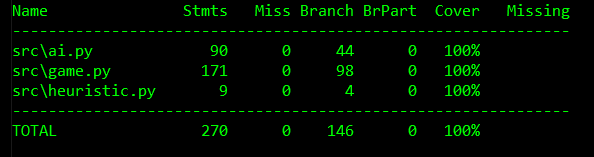
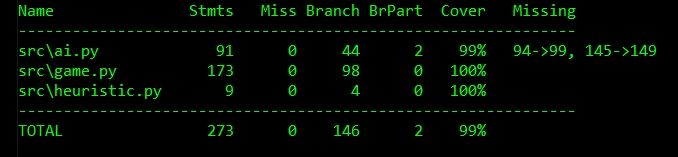
Make some perfomance improvements and bug fixes based on the peer review I got

diff --git a/src/game.py b/src/game.py
@@ -28,6 +28,11 @@ class Game:
         self.setBoard(board)
         self.addNumToBoard()
 
+    def copyBoard(self, board):
+        """Function to create a real copy of a board
+        """
+        return [row[:] for row in board]
+
     def getBoard(self):
         """Get the game objects board  
         """
@@ -106,7 +111,7 @@ class Game:
         Returns:
             A new board with the number in given position
         """
-        modifiedBoard = copy.deepcopy(board)
+        modifiedBoard = self.copyBoard(board)
         modifiedBoard[coordinates[0]][coordinates[1]] = number
         return modifiedBoard
 
@@ -166,7 +171,7 @@ class Game:
         Args:
             move: The direction in which the board is to be moved 
         """
-        prevBoard = copy.deepcopy(self.getBoard())
+        prevBoard = self.copyBoard(self.getBoard())
         if move == "up" and self.isMovePossible(move, prevBoard):
             self.setBoard(self.moveBoardUp(self.getBoard()))
             self.addNumToBoard()
@@ -197,7 +202,8 @@ class Game:
         Returns: 
             True if the move changes the board, False if the move does not
         """
-        prevBoard = copy.deepcopy(board)
+
+        prevBoard = self.copyBoard(board)
         if move == "up":
             movedBoard = self.moveBoardUp(prevBoard)
             if movedBoard == prevBoard:
@@ -233,13 +239,13 @@ class Game:
         Returns:
             A new move board where the numbers have been moved upward
         """
-        returnBoard = copy.deepcopy(board)
-        for i in range(len(returnBoard)):
+        returnBoard = self.copyBoard(board)
+        for i in range(4):
             col = [returnBoard[0][i],returnBoard[1][i],returnBoard[2][i],returnBoard[3][i]]
             prevCombinedIdx = None
 
             j = 1
-            while j < len(col):
+            while j < 4:
                 if col[j] != 0 and col[j] == col[j-1] and prevCombinedIdx != j-1:
                     col[j-1] = col[j]+col[j-1]
                     col[j] = 0
@@ -268,8 +274,8 @@ class Game:
         Returns:
             A new move board where the numbers have been moved downward
         """
-        returnBoard = copy.deepcopy(board)
-        for i in range(len(returnBoard)):
+        returnBoard = self.copyBoard(board)
+        for i in range(4):
             col = [returnBoard[0][i],returnBoard[1][i],returnBoard[2][i],returnBoard[3][i]]
             prevCombinedIdx = None
 
@@ -302,13 +308,13 @@ class Game:
         Returns:
             A new move board where the numbers have been moved leftward            
         """
-        returnBoard = copy.deepcopy(board)
-        for i in range(len(returnBoard)):
+        returnBoard = self.copyBoard(board)
+        for i in range(4):
             row = returnBoard[i]
             prevCombinedIdx = None
 
             j = 1
-            while j < len(row):
+            while j < 4:
                 if row[j] != 0 and row[j] == row[j-1] and prevCombinedIdx != j-1:
                     row[j-1] = row[j]+row[j-1]
                     row[j] = 0
@@ -334,8 +340,8 @@ class Game:
         Returns:
             A new move board where the numbers have been moved rightward
         """
-        returnBoard = copy.deepcopy(board)
-        for i in range(len(returnBoard)):
+        returnBoard = self.copyBoard(board)
+        for i in range(4):
             row = returnBoard[i]
             prevCombinedIdx = None
 

diff --git a/src/ai.py b/src/ai.py
@@ -73,7 +73,7 @@ class AI:
                         
         for move in moves:
             moveScore = -999999999999999999
-            prevBoard = copy.deepcopy(self.game.getBoard())
+            prevBoard = self.game.copyBoard(self.game.getBoard())
             if self.game.isMovePossible(move, prevBoard):
 
                 if move == "up":
@@ -159,6 +159,7 @@ class AI:
                     alpha += round(((self.expectiminimax(board, depth, True, mode))*0.9)/len(freeSpaces))
                     board[position[0]][position[1]] = 4
                     alpha += round(((self.expectiminimax(board, depth, True, mode))*0.1)/len(freeSpaces))
+                    board[position[0]][position[1]] = 0
             else:
                 freeSpace = self.game.getFirstZeroPosition(board)
                 board[freeSpace[0]][freeSpace[1]] = 2

diff --git a/src/tests/ai_test.py b/src/tests/ai_test.py
@@ -106,6 +106,14 @@ class TestAi(unittest.TestCase):
         self.game.setBoard(test_board)
         self.assertEqual("left", self.ai.getNextMove(3, mode=1))
 
+    def test_getNextMove_returns_right_when_that_is_next_best_move(self):
+        test_board =  [[2048,1024,512,256],
+                      [2,2,128,128],
+                      [8,2,8,2],
+                      [2,4,2,4]]
+        self.game.setBoard(test_board)
+        self.assertEqual("right", self.ai.getNextMove(1, mode=1))
+
     def test_aiLoop_loses_the_game_correctly(self):
         test_board =  [[1024,512,2,256],
                         [2,8,16,2],

diff --git a/src/tests/game_test.py b/src/tests/game_test.py
@@ -58,6 +58,15 @@ class TestGame(unittest.TestCase):
         self.assertEqual(True, contains_two_or_four)
         self.assertEqual(15, board_after_start_as_one_list.count(0))
 
+    def test_copyBoard_returns_copied_board(self):
+        test_board =  [[0,0,0,4],
+                       [0,512,0,0],
+                       [0,0,2,0],
+                       [0,0,0,1024]]
+        
+        copied_board = self.game.copyBoard(test_board)
+        self.assertEqual(test_board, copied_board)
+
     def test_getBoard_gets_board(self):
         board = self.game.getBoard()
         test_board =  [[0,0,0,0],

diff --git a/Dokumentaatio/testausdokumentti.md b/Dokumentaatio/testausdokumentti.md
@@ -20,7 +20,7 @@ poetry run coverage report -m
 ## Testauksen kattavuusraportti
 ![Coverage](https://github.com/Lepardi/Tiralabra/blob/main/Dokumentaatio/Images/coverage.PNG)
 
-Testit kattavat muuten kaikki pelin ja tekoälyn koodirivit mutta AI luokassa jää muutama tulosterivi kattamatta. Näillä riveillä ei ole vaikutusta tekoälyn tomintaan vaan ovat käyttäjälle sen toiminnan seuraamista varten.
+Testit kattavat muuten kaikki pelin ja tekoälyn koodirivit mutta AI luokassa jää muutama rivi kattamatta. Testit jättävät kattamatta tilanteen jossa getNextMove() ja expectiminimac() funktiot pitäisivät oikealle liikkuttamista parhaana mahdollisena liikeenä. Mielestäni testien pitäisi myös nämä haarat kattaa mutta coverage työkalun mukaan näin ei olisi. 
 
 ## Testit
 ### Game luokan testit
@@ -34,6 +34,9 @@ Testi testaa myös että funktio lisää satunaiseen paikkaan uuden luvun vertaa
 
 startGame() funktion testit: \
 Testi testaa että funktio alustaa laudan jossa on numeroita oikein, niin että siitä löytyy vain yksi 2 tai 4 jostain kohtaa lautaa.
+
+copyBoard() Funktion testit: \
+Testi testaa että funktio palauttaa kopion sille syötteenä annetusta laudasta.
 
 getHighestNum() funktion testit: \
 Testi testaa että funktio palauttaa suurimman summan laudalta:
